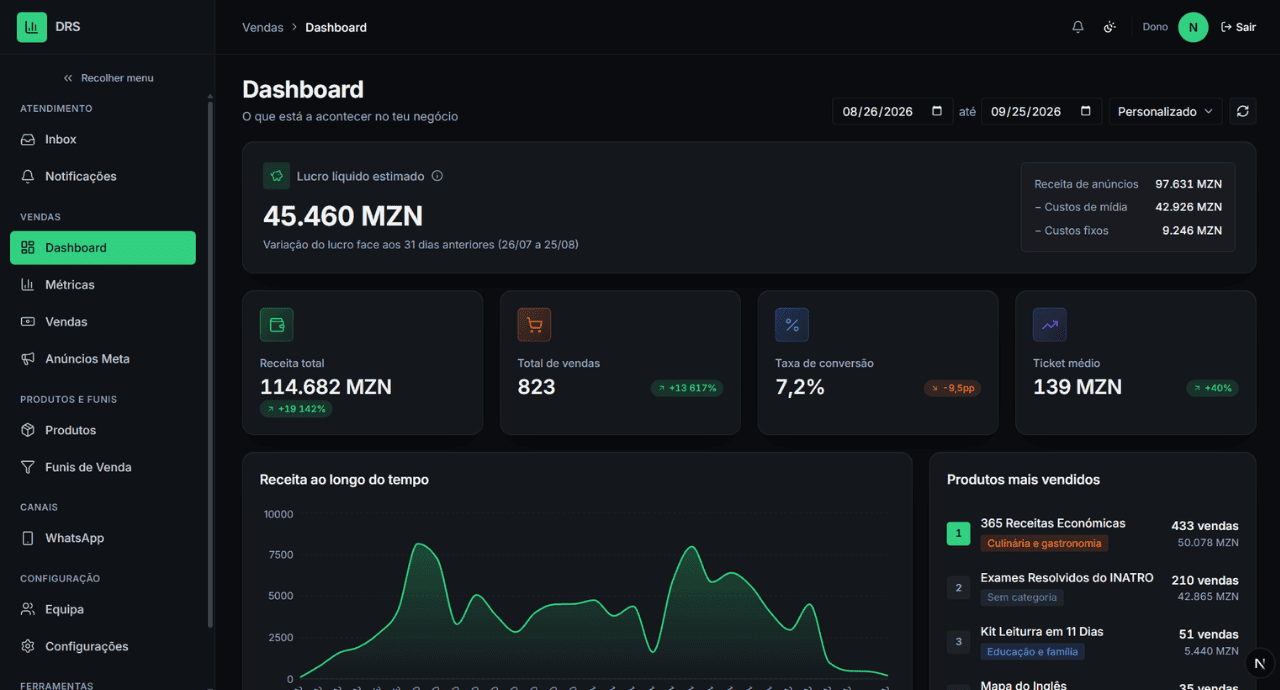
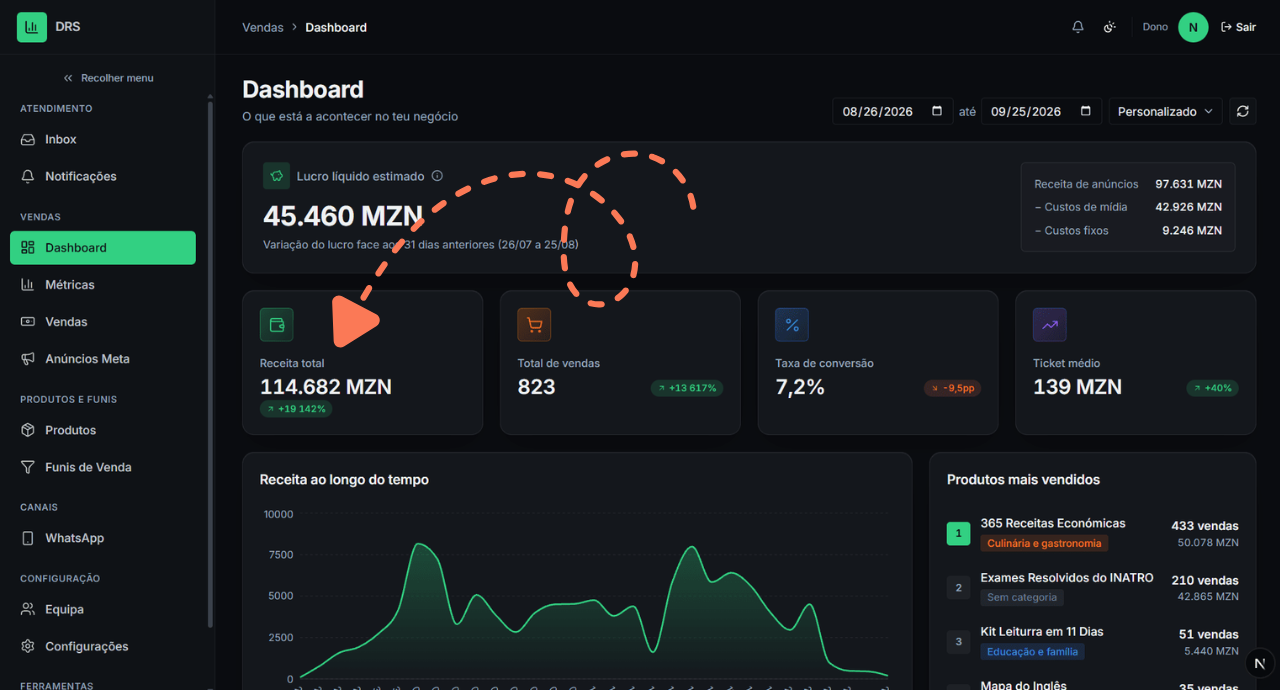
Usa o print do dashboard com o play e a seta desenhados
Claude-Session: https://claude.ai/code/session_014KMvjcAdVqhvGUpzwMGmsZ

diff --git a/index.html b/index.html
@@ -714,7 +714,7 @@
     <figure class="pdash" aria-label="Painel real do DRS com receita total, vendas e taxa de conversão">
       <div class="shot-frame">
         <div class="shot-bar"><i></i><i></i><i></i><span>Painel · Dashboard</span></div>
-        <img class="pdash-img" src="assets/media/painel-dashboard.png" alt="Dashboard do DRS com lucro líquido estimado de 45.460 MZN, receita total de 114.682 MZN, 823 vendas, taxa de conversão de 7,2% e ticket médio de 139 MZN" width="1280" height="690" loading="lazy" decoding="async">
+        <img class="pdash-img" src="assets/media/painel-dashboard.png" alt="Dashboard do DRS com lucro líquido estimado de 45.460 MZN, receita total de 114.682 MZN, 823 vendas, taxa de conversão de 7,2% e ticket médio de 139 MZN, com um botão de play e uma seta tracejada desenhados sobre a imagem" width="1280" height="690" loading="lazy" decoding="async">
       </div>
     </figure>
 
